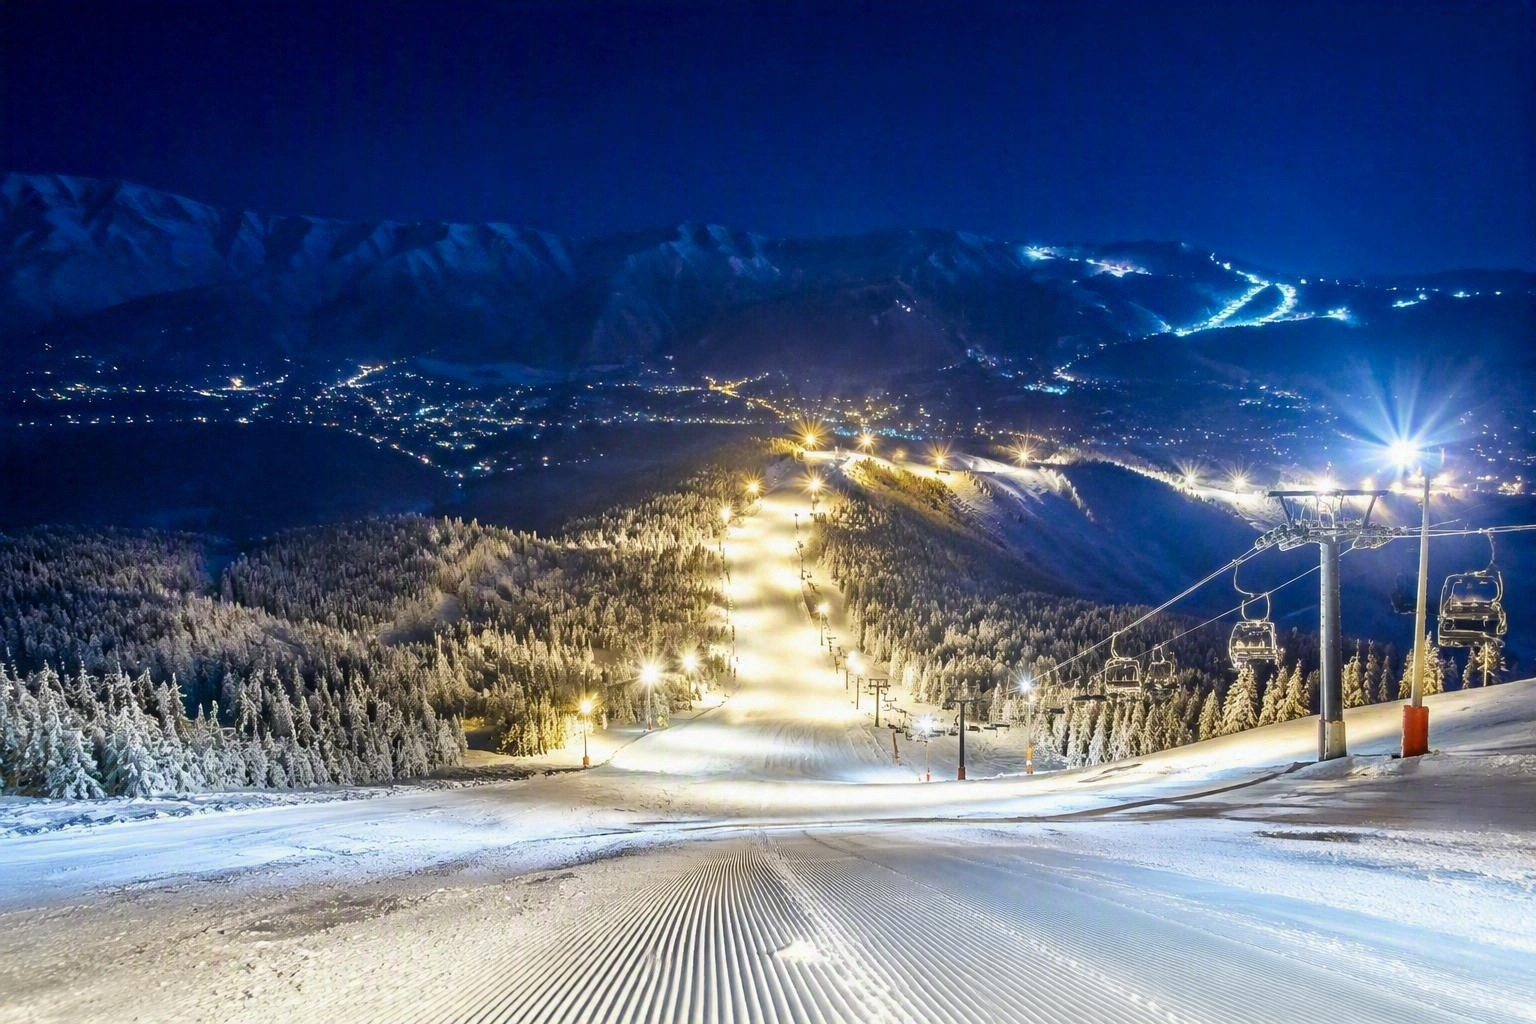
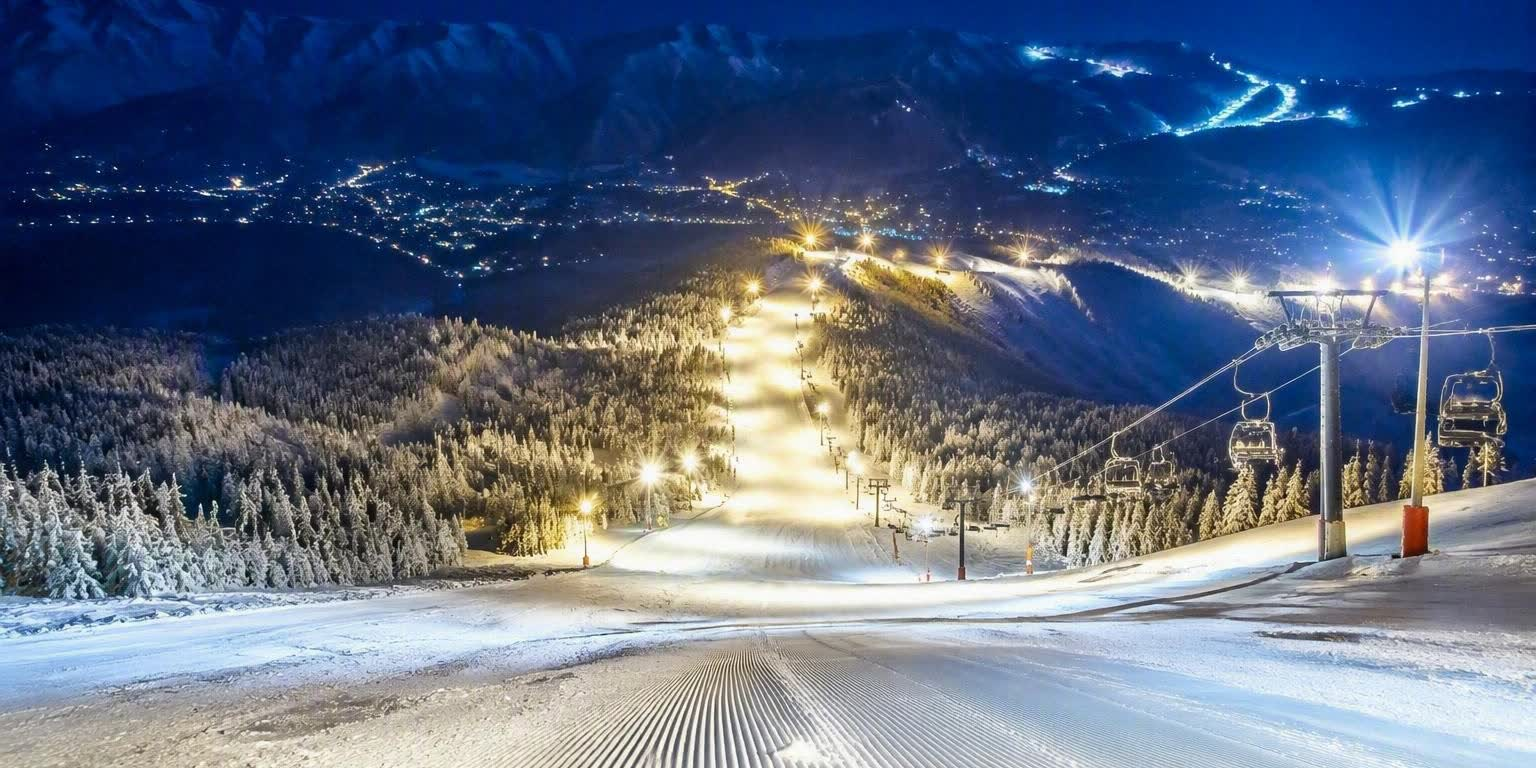
ヘッダー画像を表示される帯に合わせて切り出し、352KBから170KBに軽量化

diff --git a/css/style.css b/css/style.css
@@ -155,7 +155,7 @@ img {
     linear-gradient(180deg, rgba(4, 8, 20, 0.15) 0%, rgba(4, 8, 20, 0.05) 60%, var(--color-bg) 100%),
     url("../img/hero-night-piste.jpg");
   background-size: cover;
-  background-position: center 60%;
+  background-position: center 52%;
   background-repeat: no-repeat;
 }
 
